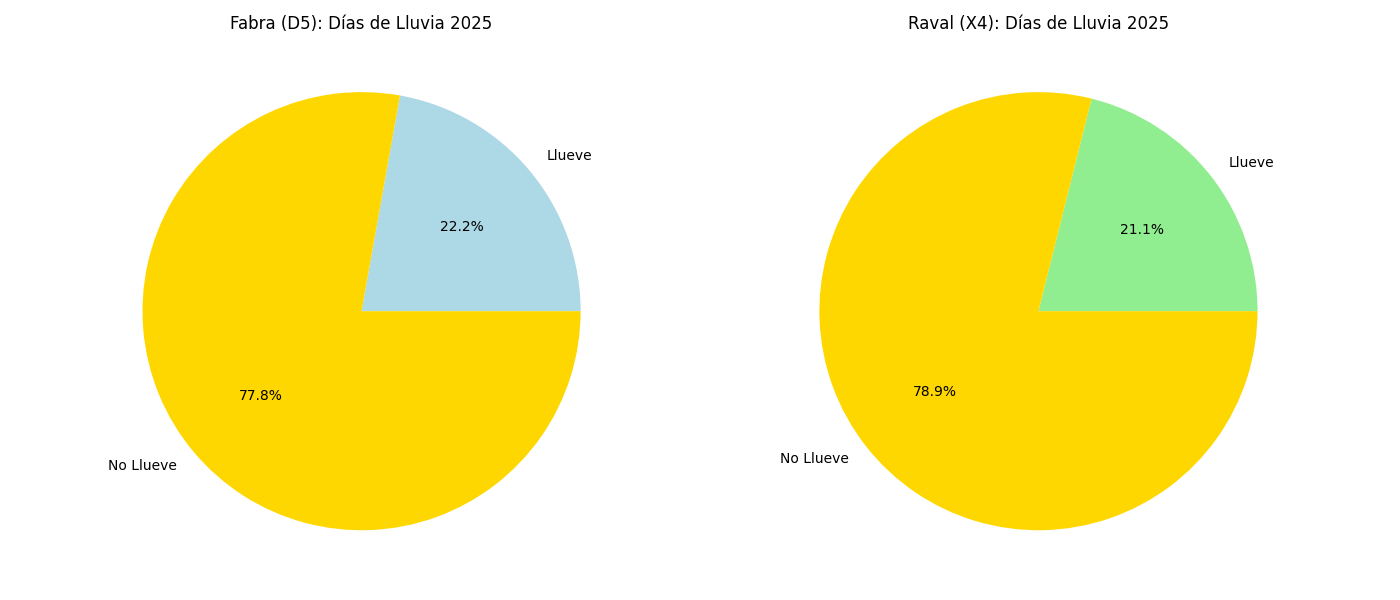
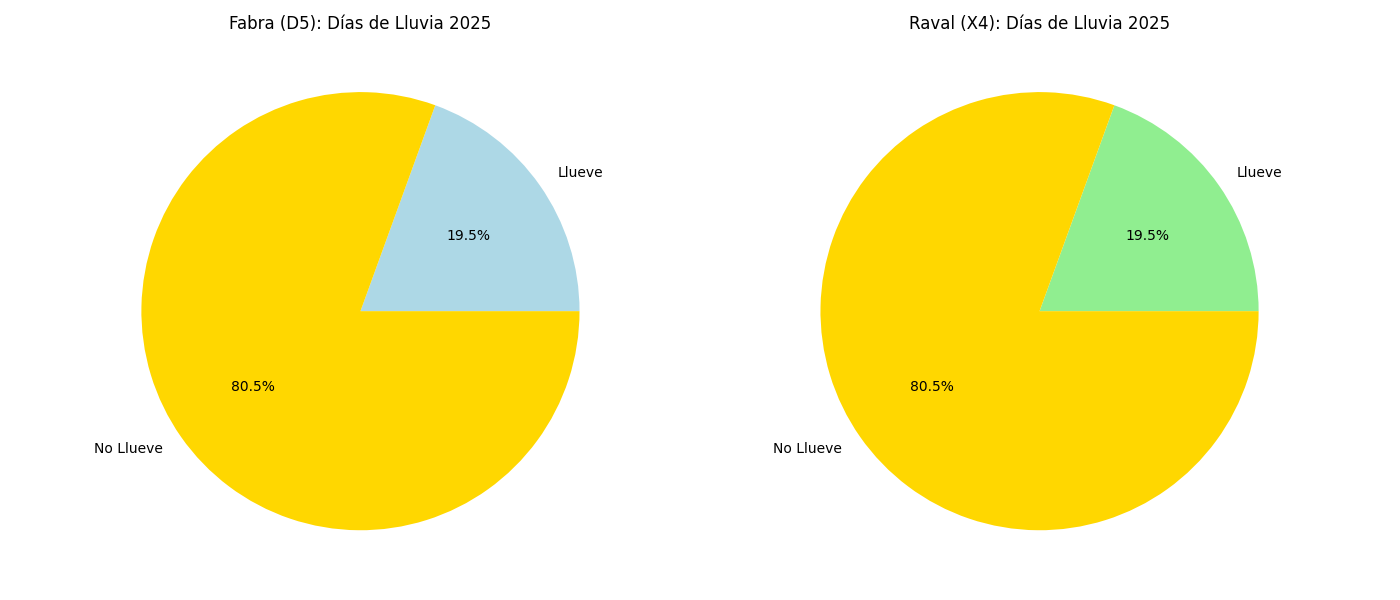
Barras verticales Raval

diff --git a/src/ej3_predic_lluvia.py b/src/ej3_predic_lluvia.py
@@ -123,3 +123,17 @@ for i, ax in enumerate(axes.flat):
 plt.tight_layout()
 plt.savefig(os.path.join(DIRECTORIO_SALIDA, 'ej3_barras_verticales_d5.png'))
 plt.close()
+
+# X4
+fig, axes = plt.subplots(4, 3, figsize=(15, 12))
+fig.suptitle('Raval (X4): Precipitación Diaria 2025')
+for i, ax in enumerate(axes.flat):
+    mes = i + 1
+    datos_mes = prediccion_2025_x4[prediccion_2025_x4.index.month == mes]
+    ax.bar(datos_mes.index.day, datos_mes.values, color='green', alpha=0.7)
+    ax.set_title(meses_nombres[mes-1])
+    ax.set_ylabel('mm')
+    ax.grid(True, alpha=0.3)
+plt.tight_layout()
+plt.savefig(os.path.join(DIRECTORIO_SALIDA, 'ej3_barras_verticales_x4.png'))
+plt.close()
